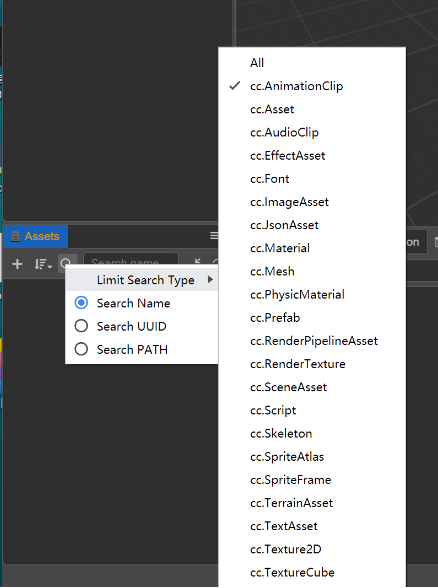
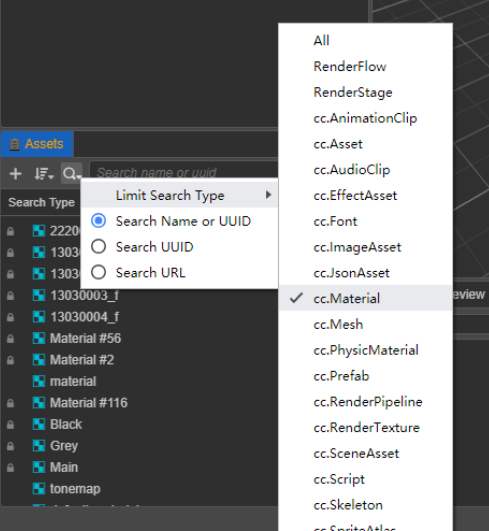
update assets panel ZH doc

diff --git a/zh/editor/assets/index.md b/zh/editor/assets/index.md
@@ -1,11 +1,11 @@
 # 资源管理器
 
- **资源管理器** 面板是我们用来访问和管理项目资源的重要工具。
- 在开始制作游戏时，**导入资源** 通常是必须的步骤。您可以在新建项目时使用模板项目，新建步骤完成后会自动打开项目，默认布局中包含了 **资源管理器** 面板，里面有两个资源库，简称 DB，`assets` 和 `internal`, `internal` 属于默认的内置资源，内置资源可以复制出来，但不能直接修改。
+**资源管理器** 面板是我们用来访问和管理项目资源的重要工具。
+在开始制作游戏时，**导入资源** 通常是必须的步骤。您可以在新建项目时使用模板项目，新建步骤完成后会自动打开项目，默认布局中包含了 **资源管理器** 面板，里面有两个资源库，简称 DB，`assets` 和 `internal`, `internal` 属于默认的内置资源，内置资源可以复制出来，但不能直接修改。
 
- 面板操作预览
+面板操作预览
 
- ![面板操作预览](img/thumb.gif)
+![面板操作预览](img/thumb.gif)
 
 ## 面板介绍
 
@@ -13,22 +13,23 @@
 
 - `头部菜单区` 的功能有：**新建资源按钮** ，**排序方式按钮** ，**搜索过滤** ，**搜索框**，**全部折叠或展开按钮** ，**刷新列表按钮**
 - `树形列表区` 主要体现资源之间的关系，根节点如 `assets` 类似操作系统里的文件管理器，编辑器中称之为一个 DB
-  * `assets` 是项目资源，新项目下默认为空；
-  * `internal` 是内置资源，属于只读资源，不可进行增删改操作，但可以作为资源模板，复制到 Assets DB 上进行粘贴，即新建了一个项目资源。
-  * 面板和节点都有右击菜单事件，是重要的操作功能，灰色为不可用菜单。
+  - `assets` 是项目资源，新项目下默认为空；
+  - `internal` 是内置资源，属于只读资源，不可进行增删改操作，但可以作为资源模板，复制到 Assets DB 上进行粘贴，即新建了一个项目资源。
+  - 面板和节点都有右击菜单事件，是重要的操作功能，灰色为不可用菜单。
 - 面板的快捷方式目前支持资源的操作：
 
-    - 复制：Ctrl or Cmd + C
-    - 粘贴：Ctrl or Cmd + V
-    - 克隆：Ctrl or Cmd + D，Ctrl + 拖动资源
-    - 删除：Delete
-    - 上下选择：上下箭头
-    - 文件夹的折叠：左箭头
-    - 文件夹的展开：右箭头 
-    - 多选：Ctrl or Cmd + 点击
-    - 多选：Shift + 点击
-    - 重命名： Enter/F2
-    - 取消输入：Esc
+  - 复制：Ctrl or Cmd + C
+  - 粘贴：Ctrl or Cmd + V
+  - 克隆：Ctrl or Cmd + D，Ctrl + 拖动资源
+  - 删除：Delete
+  - 上下选择：上下箭头
+  - 文件夹的折叠：左箭头
+  - 文件夹的展开：右箭头
+  - 多选：Ctrl or Cmd + 点击
+  - 全选：Ctrl or Cmd + A
+  - 多选：Shift + 点击
+  - 重命名： Enter/F2
+  - 取消输入：Esc
 
 ## 新建资源
 
@@ -38,69 +39,65 @@
 
 文件夹内新增资源，会先出现一个 **输入框** 要求填入新资源的名称，名称不能为空。
 
+## 打开资源
+
+- 双击资源可打开该资源，比如 scene, script，image
+- 双击文件夹的打开方式表现折叠或展开，切换子集资源的显示状态。
+
 ## 选中资源
 
 在列表中可以使用以下操作选中资源：
 
 - 单击可单选资源
 - 键盘上下箭头可以上下切换选中资源
+- 键盘左右箭头可以展开或折叠父级类型的资源，如文件夹
 - 按住 Ctrl or Cmd + 点击，可以多选资源
 - 按住 Shift + 点击，可以多选资源
+
+右击菜单中的 **在文件夹内全选** 或快捷键 **Ctrl+A** 可实现在文件夹内全部子资源的选中，多次全选操作会逐层往上全选。
 
 ## 移动资源
 
 通过拖动来实现资源的移动：
 
-- 移动资源，资源从树形列表中的一个文件夹里拖出到另一个文件夹，此时会有一个目标文件夹的位置框跟随变动。
+- 移动资源，资源从树形列表中的一个文件夹里拖出到另一个文件夹，此时会出现一个目标文件夹范围的框，表示放置的位置。
 - 拖出资源到 **场景面板** 或 **层级面板** 去生成节点，目前支持 `cc.Prefab`, `cc.Mesh`, `cc.SpriteFrame` 资源。
 - 从 **系统的文件管理器** 拖动文件到列表中，实现导入资源。
 - 拖入节点，从 **层级面板** 拖动节点到 **资源面板** 里某个文件夹，可实现保存该节点为一个 `cc.Prefab` 资源, 详见 [预制资源（Prefab）](../../asset/prefab.md)；
 
- ![移动资源](img/drag.png)
+![移动资源](img/drag.png)
 
 ## 删除资源
 
 可操作右击菜单中的 **删除** 按钮，或快捷键 **Delete**，支持多选后批量删除，资源删除后保留在 **系统的回收站** 里，必要时可将其还原。
 
-## 在文件夹内全选
+## 折叠资源
 
-右击菜单中的 **全选** 可实现在该文件夹内全选子资源。
+折叠分为单一折叠或含子集的全部折叠；
 
-## 在文件夹内搜索
-
-右击菜单中的 **文件夹内搜索** 可缩小搜索范围。
-
-## 在文件管理器中显示
-
-右击菜单中的 **在文件管理器中显示** 可定位资源所在的系统目录。
-
-## 重新导入资源
-
-右击菜单中的 **重新导入资源** 可以更新项目里 `./library` 内对应的资源，这些生成过的数据才可被编辑器和引擎识别；支持多选后批量重新导入。
+- `头部菜单区` **全部折叠或展开按钮** 作用于全局；
+- 单击一个父级资源如文件夹的三角图标，可以展开或折叠它的子集；
+- 快捷键 **Alt+点击三角图标** 实现子资源全部展开或折叠
+- 折叠状态有记录，下次打开编辑器会保持当前的折叠状态。
 
 ## 排序资源
 
-头部菜单中的 **排序方式按钮** 有 2 种排序方式：**按名称排序**，**按类型排序**，
-排序方式有记忆，下次打开编辑器会保持已存的排序方式。
+- 头部菜单中的 **排序方式按钮** 有 2 种排序方式：**按名称排序**，**按类型排序**，
+- 排序方式有记录，下次打开编辑器会保持当前的排序方式。
 
 ## 搜索资源
 
 搜索功能是一种组合的功能，可限定搜索类型，且指定搜索字段。
-- **限定搜索类型** 是一个大前提，**这点需要特别注意**，可能会导致树形列表为空，该按钮高亮即表示有启用该功能。
-- 可多选，选择类型里面的 `All` 才能返回正常的树形列表。
-- 指定搜索字段有 3 种方式：**搜索名称**，**搜索 UUID**，**搜索路径**。其中 **UUID** 和 **路径 PATH** 可从右击菜单最后一项中输出数据。
-- **搜索框** 是即时变动的；
-- 在搜索结果中选中资源，清空搜索，视窗会重新定位到该资源，达到通过搜索来找到资源的目的；此外搜索结果中双击文件夹，可快速定位到树形中该文件夹。
 
- ![启用过滤](img/search-type.png)
+- **限定搜索类型** ，可多选。类型为资源类型 assetType，不是后缀名称或 importer 名称。
+- 指定搜索字段有 3 种方式：**搜索名称 或 UUID**，**搜索 UUID**，**搜索 URL**。名称不区分大小写。
+- 其中 **UUID** 和 **URL** 可从右击菜单最后一项中输出数据。
+- 在搜索结果列表中选中资源，双击资源等同于在正常模式下的操作。清空搜索，视窗会重新定位到选中的资源。
+- 右击菜单中的 **文件夹内搜索** 可缩小搜索范围。
 
- ![多选过滤类型](img/search-types.png)
+![启用过滤](img/search-type.png)
 
-
-## 折叠资源
-
-- `头部菜单区` **全部折叠或展开按钮** 作用于全局；
-- 树形节点的三角图标，可按 `alt` 键实现子资源全部展开或折叠
+![多选过滤类型](img/search-types.png)
 
 ## 重命名资源
 
@@ -109,9 +106,129 @@
 - 快捷键 `Esc` 取消重命名
 - 此外 ts 脚本资源的初始名称会处理为它的 `className`, 而 `className` 是不能重复的。
 
+## 在文件管理器中显示
+
+右击菜单中的 **在文件管理器中显示** 可定位资源所在的系统目录。
+
+## 重新导入资源
+
+右击菜单中的 **重新导入资源** 可以更新资源到项目的 `./library` 文件夹，支持多选批量导入。
 
 ## 大图预览
 
 此外可与 Assets Preview 面板配合， 点击一个文件夹，可按类型排列显示大图子资源，对于图片资源会较为直观。
 
- ![资源预览](img/preview.png)
+![资源预览](img/preview.png)
+
+## 扩展 Assets 面板
+
+插件间的扩展，走常规的 \*\* \*\* 流程，Assets 面板支持扩展的位置和功能有限，这是逐步开放的过程，有新的需求可在论坛中反馈，目前支持的扩展有：
+
+1.  拖入识别
+2.  右击菜单
+
+注入扩展的主要流程为：
+
+- 新建一个插件
+- 插件 package.json `contributions` 指定 `"assets": "./contributions-assets.js"`
+- `contributions-assets.js` 输出 module.exports
+- module.exports 内容格式为 { Drop, Menu }
+
+```typescript
+// onDrop 动作会触发 Message.send('extensionName', 'messageName', asset:IAssetInfo)
+interface DropItem {
+  type: string;
+  message: 'messageName';
+}
+export const Drop: DropItem[] = [];
+
+/**
+ * 扩展右击菜单
+ * Eelectron MenuItem https://www.electronjs.org/docs/api/menu-item
+ * 
+ * path 扩展的区域可选值：
+    "create" 位置：创建资源
+    "asset" 位置：普通资源的右击菜单
+    以下尚不支持
+    "db" 位置：DB 根节点的右击菜单
+    "panel" 位置：面板空白区域的右击菜单
+    "sort" 位置：面板头部排序按钮的菜单
+    "search" 位置：面板头部搜索按钮的菜单
+ */
+interface Menu extends MenuItem {
+  path: string; // 扩展的区域
+}
+export const Menu: Menu;
+
+
+// 其他数据格式说明
+
+interface IAssetInfo extends AssetInfo {
+  additional: IDragAdditional[]; // 追加拖拽可识别的类型
+  fileName: string; // 文件名，不包含后缀
+  fileExt: string; // 后缀，不包含点好
+  isParent: boolean; // 是否是父节点
+  isDB: boolean; // 是否是 DB 根节点
+  isSubAsset: boolean; // 是否是 subAsset, 
+  depth: number; // 树形层级
+  left: number; // 缩进的大小
+  refreshTime: number; // 每次刷新的当前时间戳，目前用于缩略图的刷新
+}
+
+interface IDragAdditional {
+  type: string;
+  value: string;
+  name?: string; // 节点或资源名称
+}
+
+interface AssetInfo {
+  // 资源名字
+  name: string;
+  // 资源用于显示的名字
+  displayName: string;
+  source: string;
+  // loader 加载的层级地址
+  path: string;
+  // loader 加载地址会去掉扩展名，这个参数不去掉
+  url: string;
+  // 绝对路径
+  file: string;
+  uuid: string;
+  // 使用的导入器名字
+  importer: string;
+  // 类型
+  type: string;
+  // 是否是文件夹
+  isDirectory: boolean;
+  // 导入资源的 map
+  library: { [key: string]: string };
+  // 子资源 map
+  subAssets: { [key: string]: AssetInfo };
+  // 是否显示
+  visible: boolean;
+  // 是否只读
+  readonly: boolean;
+
+  // 虚拟资源可以实例化成实体的话，会带上这个扩展名
+  instantiation?: string;
+  // 跳转指向资源
+  redirect?: IRedirectInfo;
+  // 继承类型
+  extends?: string[];
+}
+
+interface IRedirectInfo {
+  // 跳转资源的类型
+  type: string;
+  // 跳转资源的 uuid
+  uuid: string;
+}
+```
+
+细节太多，附上一个 demo 源码，点击下载：
+<a href="img/extend-assets-menu.zip" target="_blank">extend-assets-menu.zip</a>
+
+
+![extend-menu](img/extend-menu.png)
+
+![extend-create-menu](img/extend-create-menu.png)
